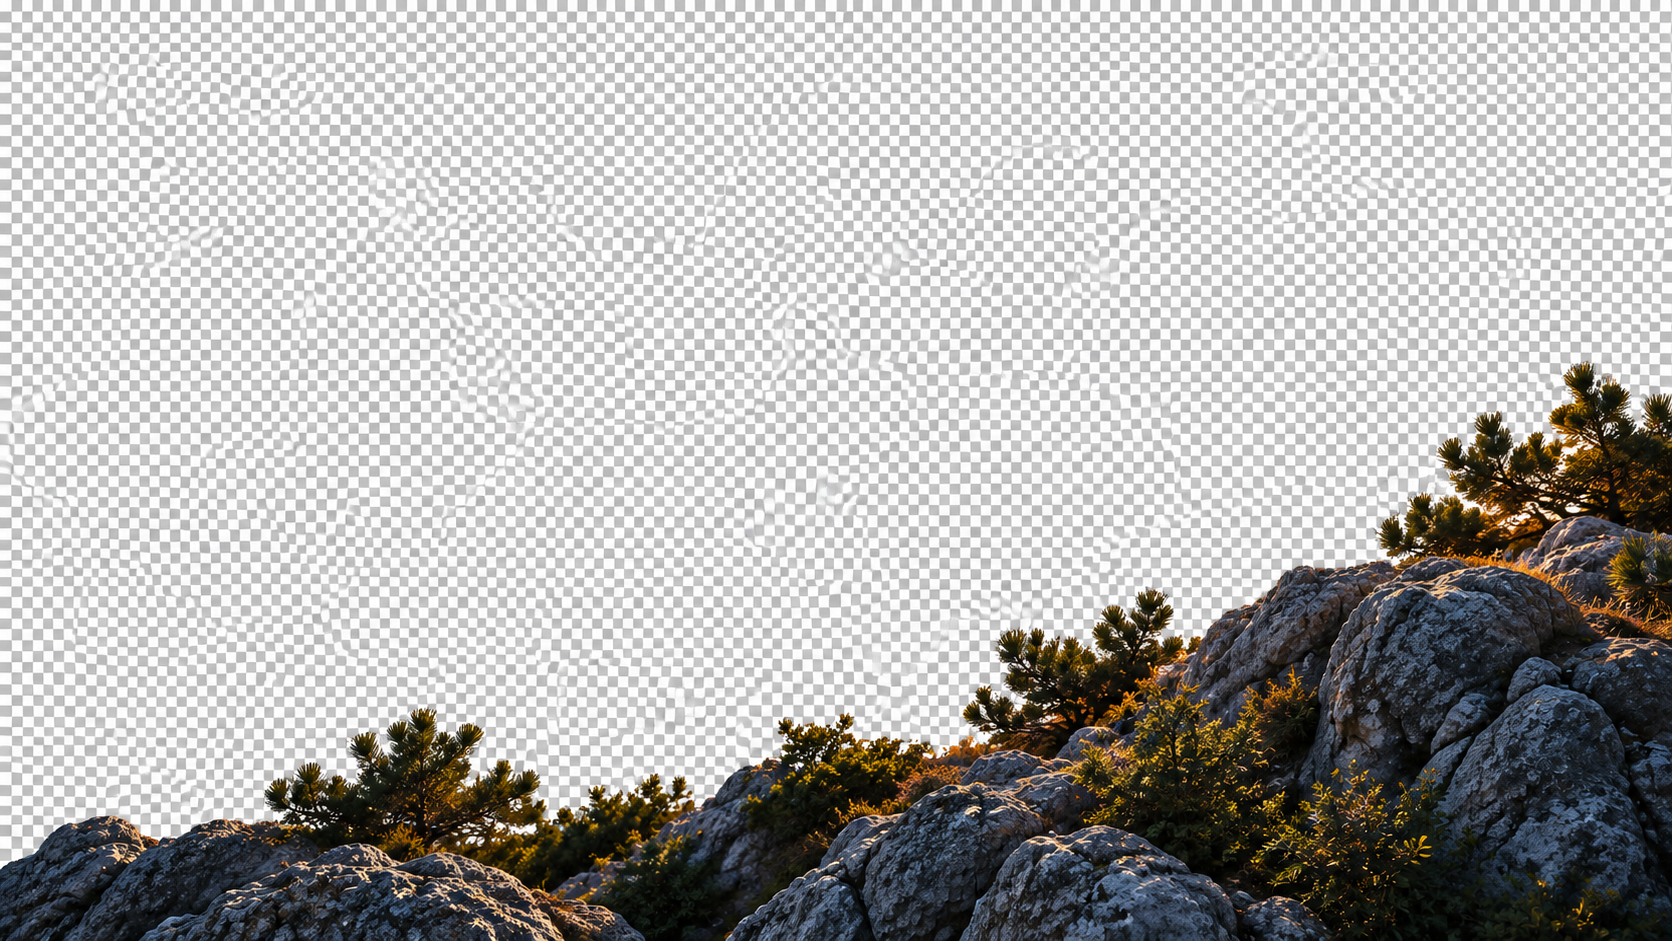
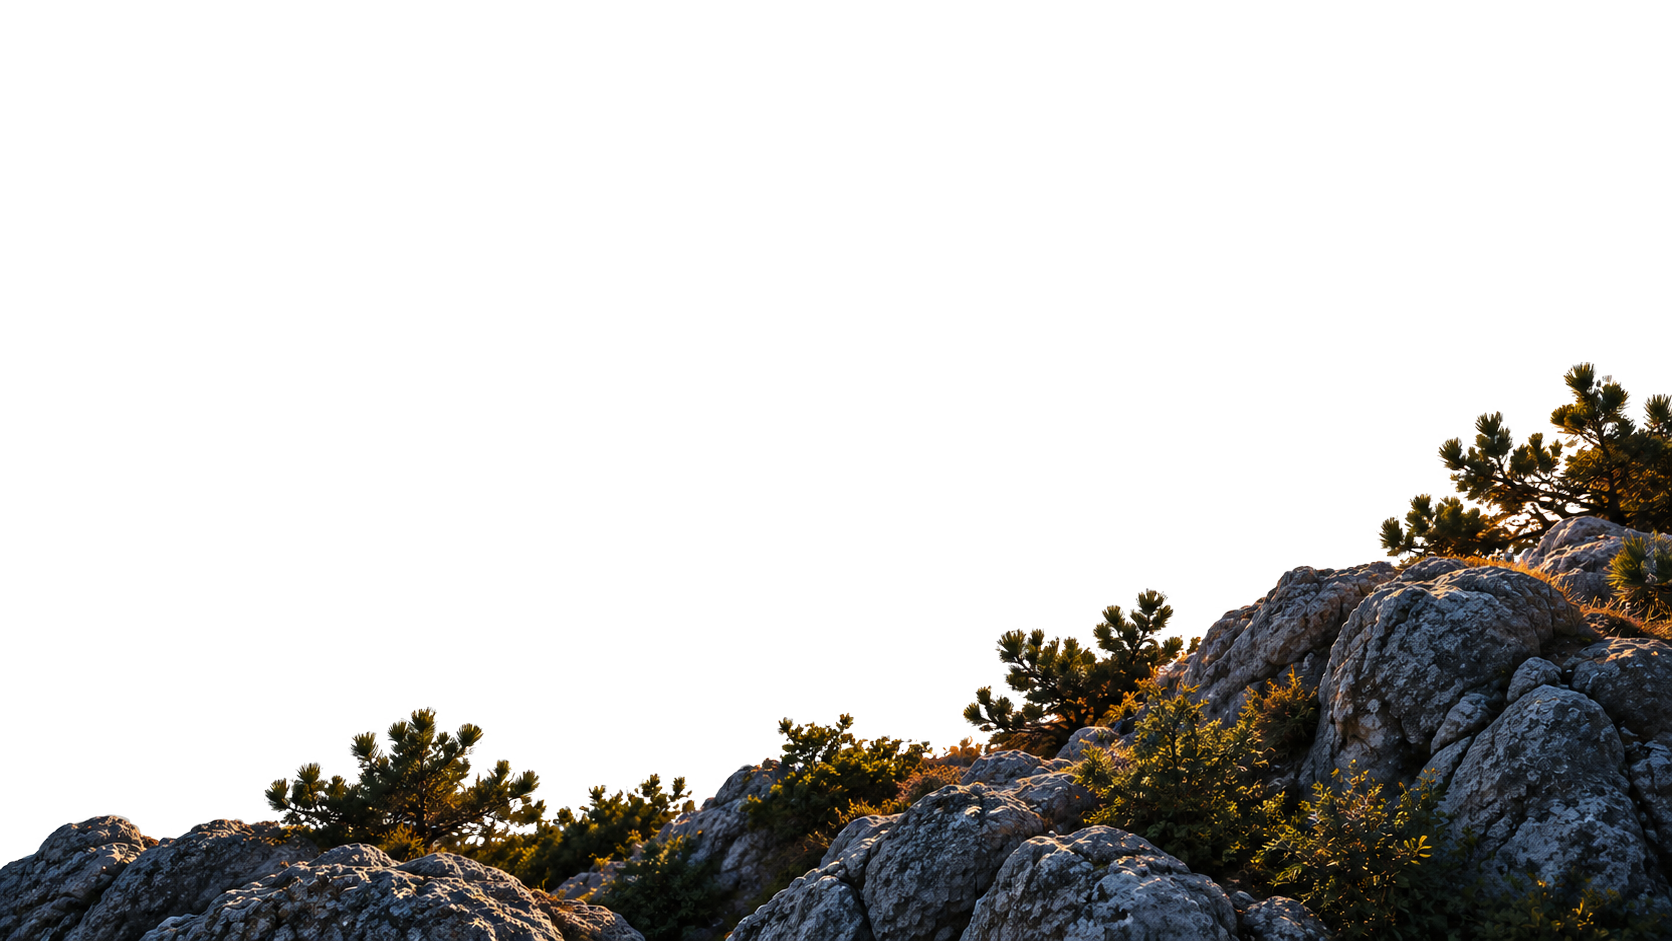
fix(landing): bake true RGBA alpha transparency into foreground plate for mobile browsers

diff --git a/src/components/reference/mountain-scene.css b/src/components/reference/mountain-scene.css
@@ -46,8 +46,6 @@
   position: absolute;
   inset: 15% -3% -15%;
   background: url('/assets/mountain/foreground.png') center bottom/cover no-repeat;
-  mask: url('/assets/mountain/foreground-matte.png') center bottom/cover no-repeat luminance;
-  -webkit-mask: url('/assets/mountain/foreground-matte.png') center bottom/cover no-repeat luminance;
   transform-origin: 78% 90%;
   transform: translate3d(0, var(--near-y), 0) scale(var(--near-scale));
 }
@@ -60,8 +58,6 @@
   .reference-design .mountain-foreground {
     inset: 30% -30% -20%;
     background-position: 65% bottom;
-    mask-position: 65% bottom;
-    -webkit-mask-position: 65% bottom;
   }
   .reference-design .mountain-backdrop img,
   .reference-design .mountain-backdrop-img {
